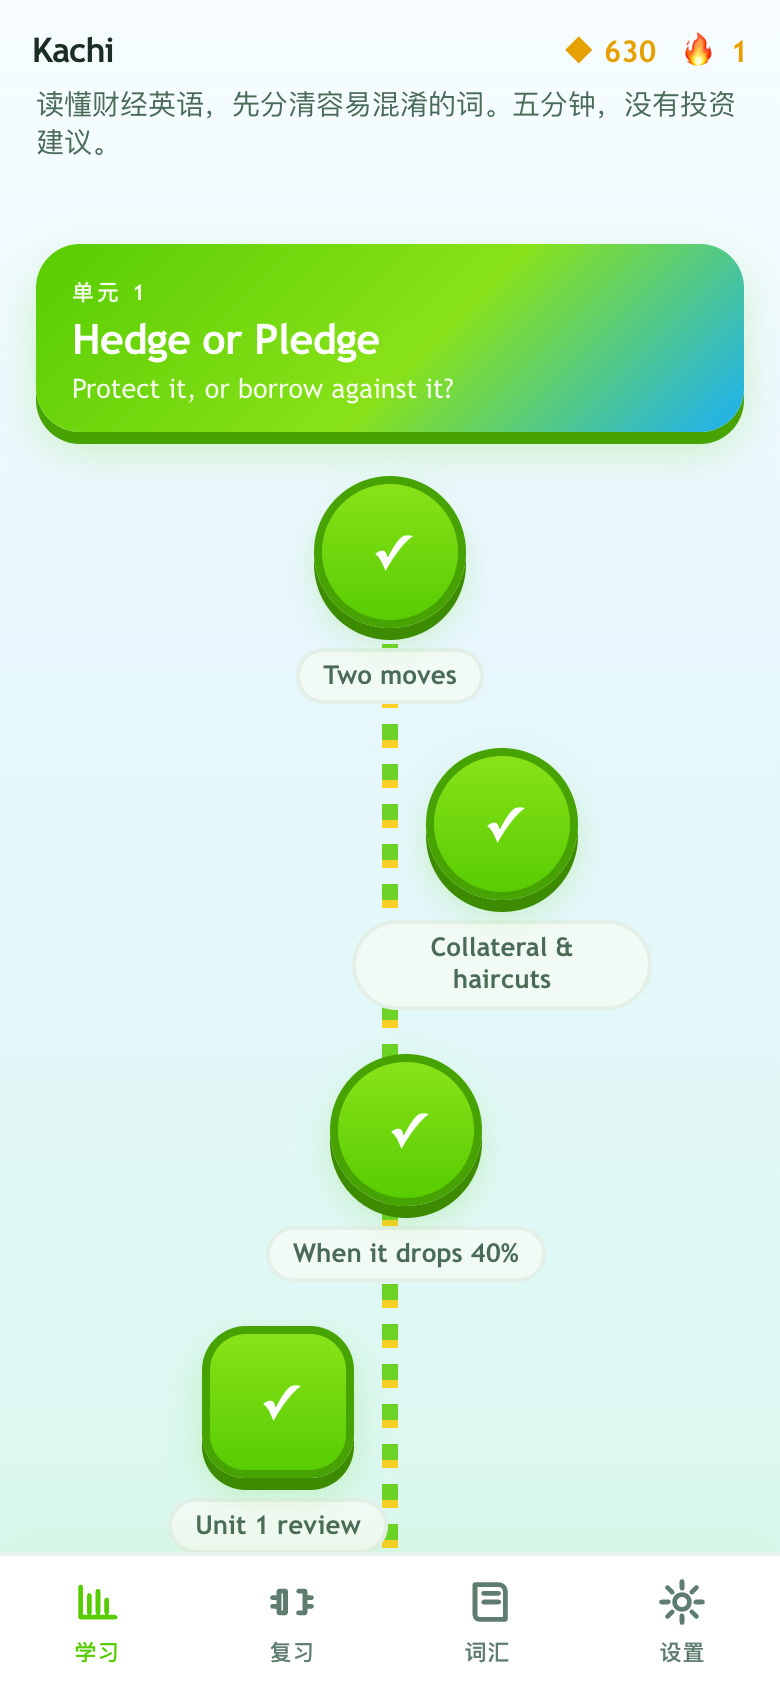
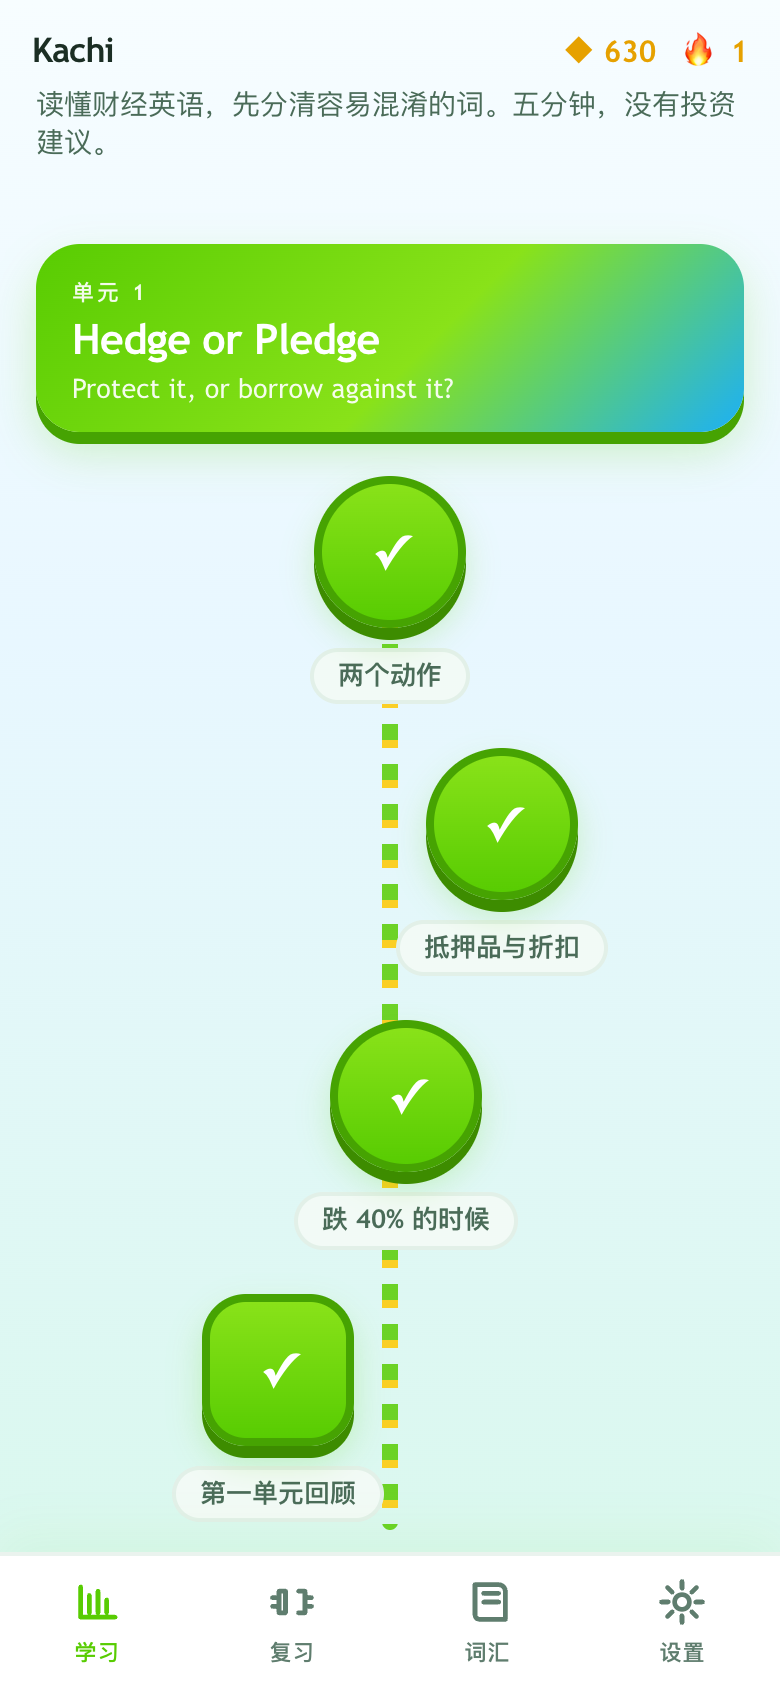
feat(web): single-language rendering — English only where the vocabulary lives
- Teach card: one definition line (Chinese, from the course pack), the
  caption and example are Chinese; the English term stays the 34px headline
  with 中文译名 in the kicker. Bilingual helper lines removed.
- Feedback sheets: the why is now Chinese from the pack, so the extra
  中文提示 line and its CSS are gone; verdicts unchanged.
- Glossary: term + 中文译名 + Chinese definition/example/mix-up; search still
  matches both languages.
- localization.ts shrinks to the term-name map; bilingual CSS rules dropped.
- Docs: DESIGN.md §11 records the single-language decision; README wording
  updated.

Regression: pnpm check green (58 tests), full e2e against the production
build passes 65/65 on the Chinese content — the fingerprint-driven suite
adapts to translated copy without a single locator change.

Changed region(s): [[0.2462, 0.5237, 0.7385, 0.9242], [0.4308, 0.3697, 0.5846, 0.4313], [0.4923, 0.8934, 0.5231, 0.9242]]

diff --git a/DESIGN.md b/DESIGN.md
@@ -126,4 +126,5 @@ The prototype HTML stays as the visual/behavioral reference. Port notes and delt
 - A fourth nav tab, 设置 (export/import learner data, privacy copy), exists beyond the prototype's three tabs.
 - No remote font loading: the `Nunito` stack resolves only if installed locally (README's 本地优先 rule).
 - Engine deltas that back the ported behavior: the +20 no-mistake bonus and the hearts-gated finish live in `@kachi/learning-engine` (`applyAnswer` with `heartsAfter`; a failed finish never completes the lesson), and a failed match re-queues itself via `requeuePrompt`. The practice focus set (recent misses ∪ due confusion pairs) derives from the attempt log via `recentMissTermIds`.
+- Single display language (29 Aug 2026): the zh-CN course pack is native Chinese — stems, stories, options, whys, captions, examples, lesson titles, and unit blurbs are translated; the English terms themselves stay English (hedge, put, margin call) because the terms ARE the learning target, with 中文译名 as subtitles on teach cards and in the glossary. `localization.ts` carries only the term-name map, and the old bilingual helper lines are gone.
 - Smoke coverage: `.playtest/verify-new.mjs` drives the full lesson → practice → glossary → fail loop against a dev server and captures `shots-new/`.

diff --git a/README.md b/README.md
@@ -31,7 +31,7 @@ pnpm dev
 pnpm check
 ```
 
-课程由 `content/packs/` 下的 Git 内容包提供。当前课程由旧原型机械迁移；需要重新生成时运行：
+课程由 `content/packs/` 下的 Git 内容包提供。当前课程为原生中文包（界面与讲解全中文，术语保留英文），由旧原型迁移并本地化；需要重新生成时运行：
 
 ```bash
 pnpm migrate:legacy-content
